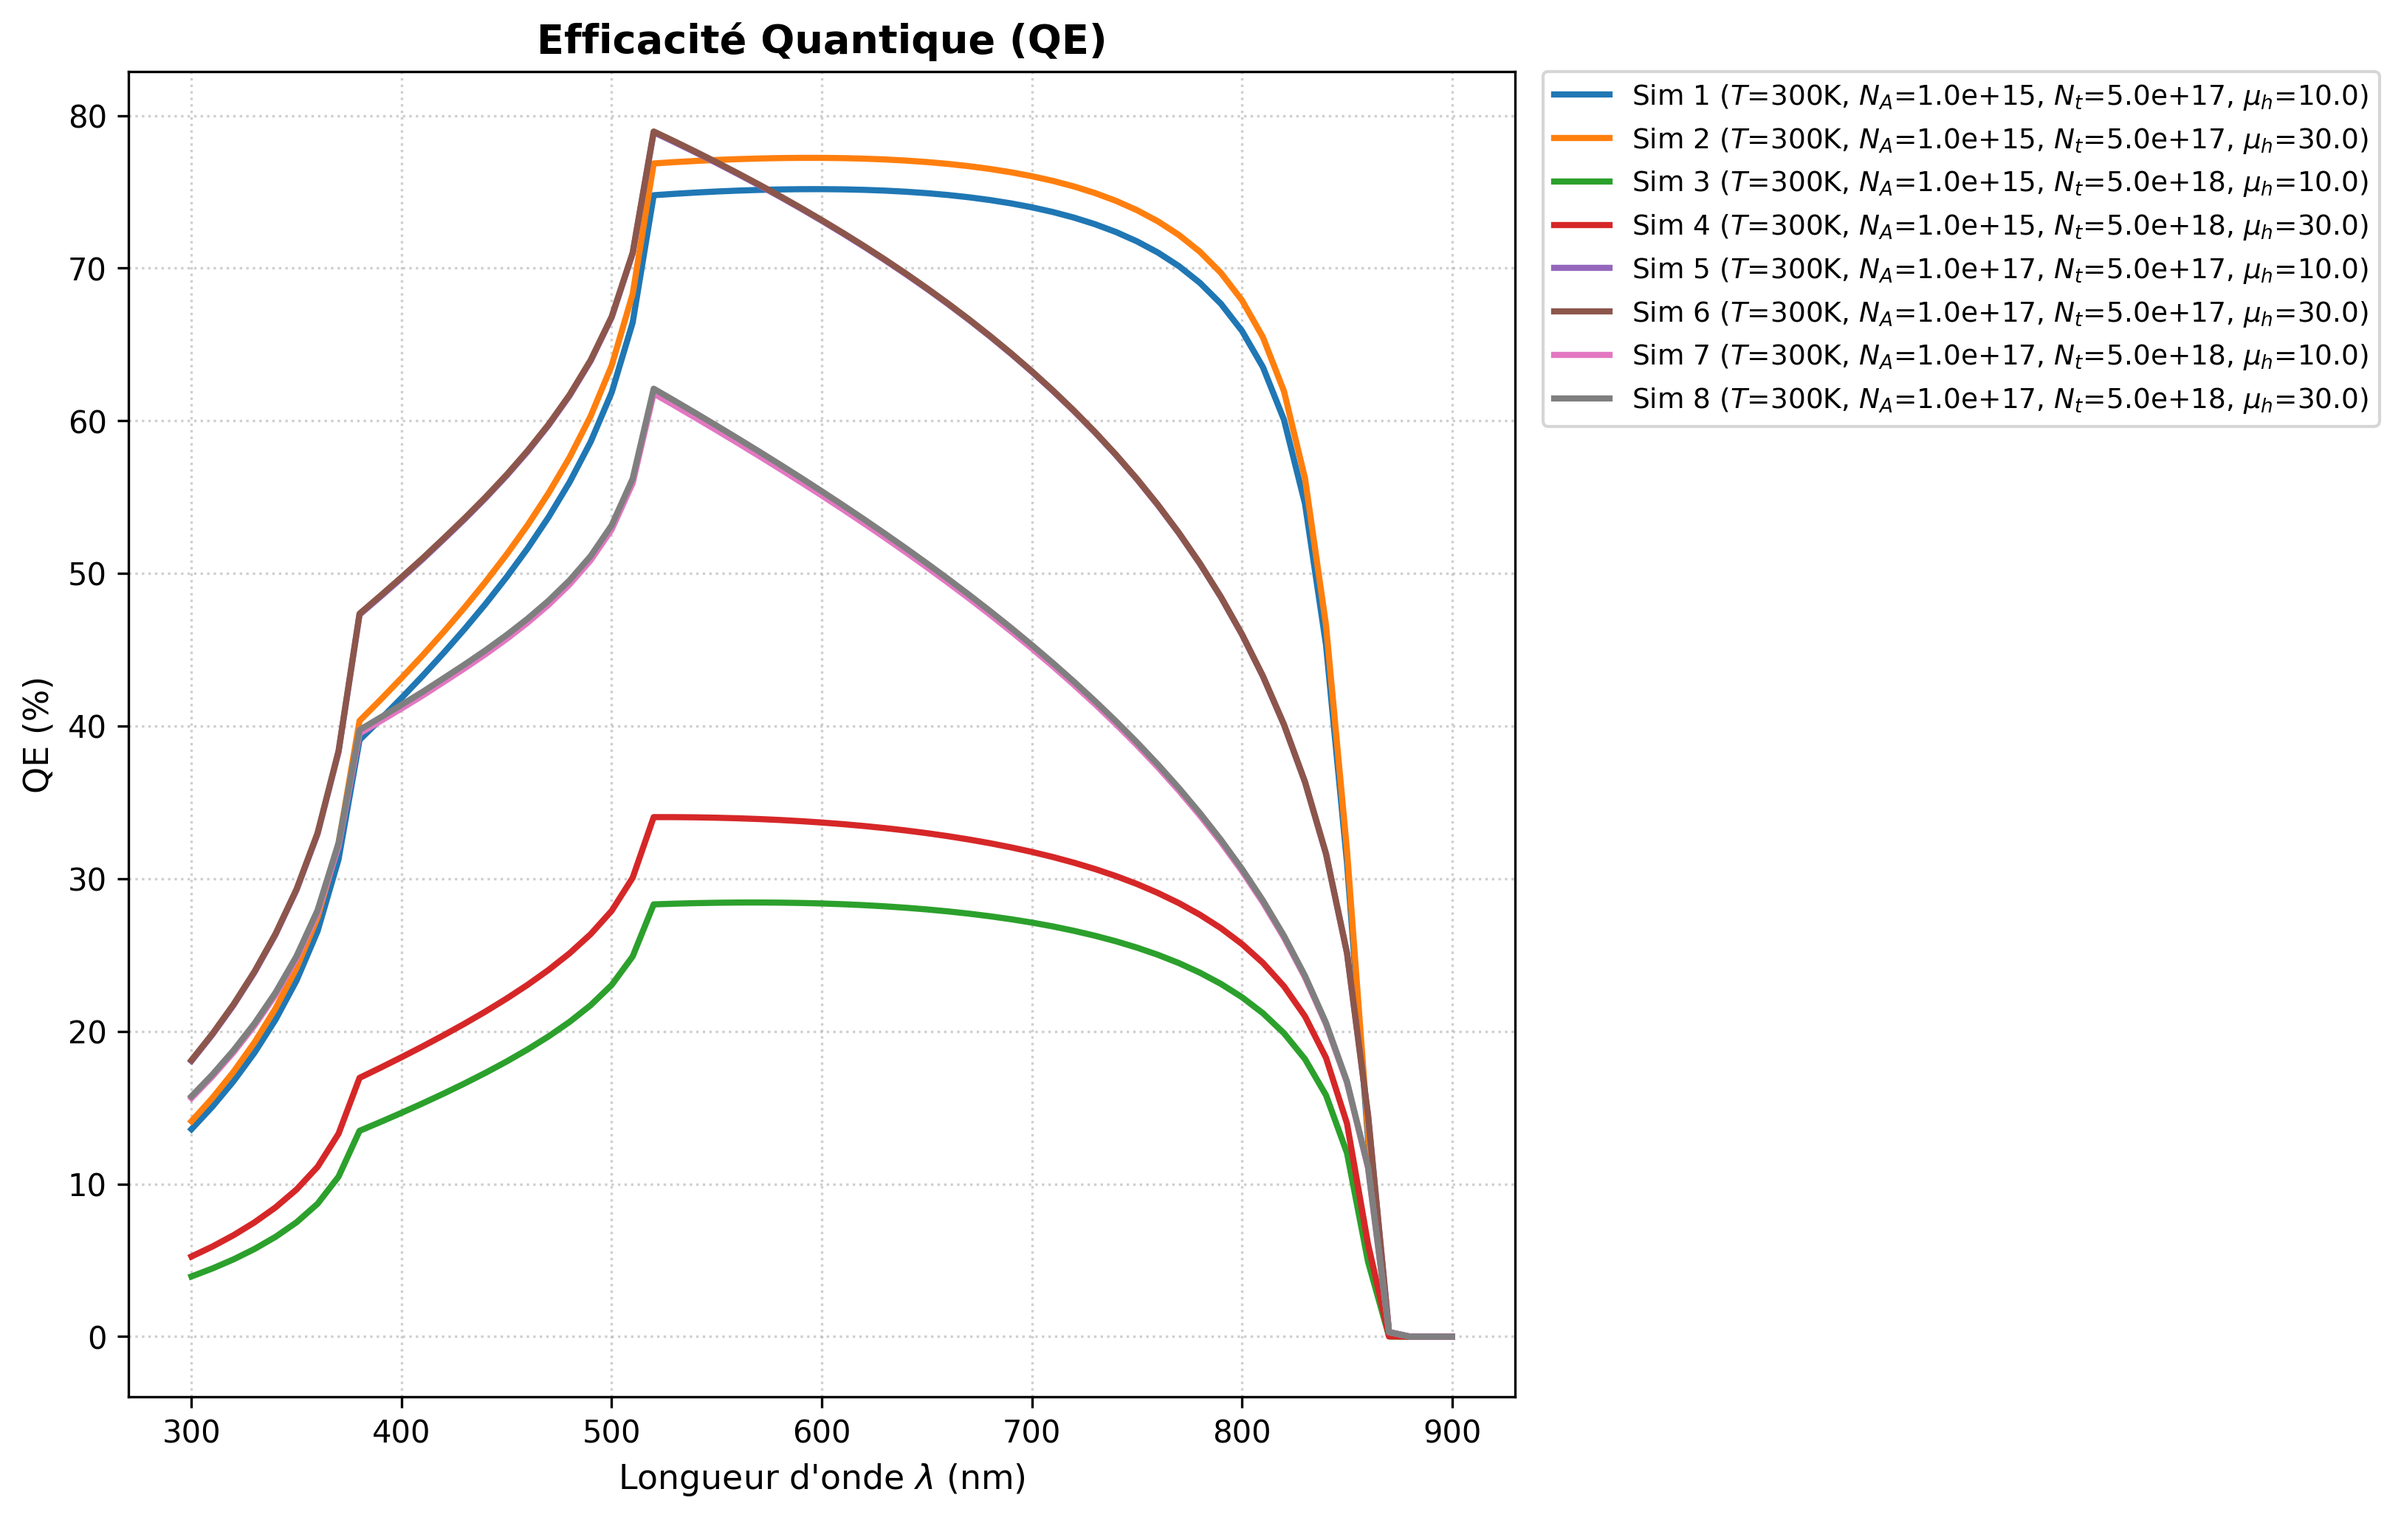
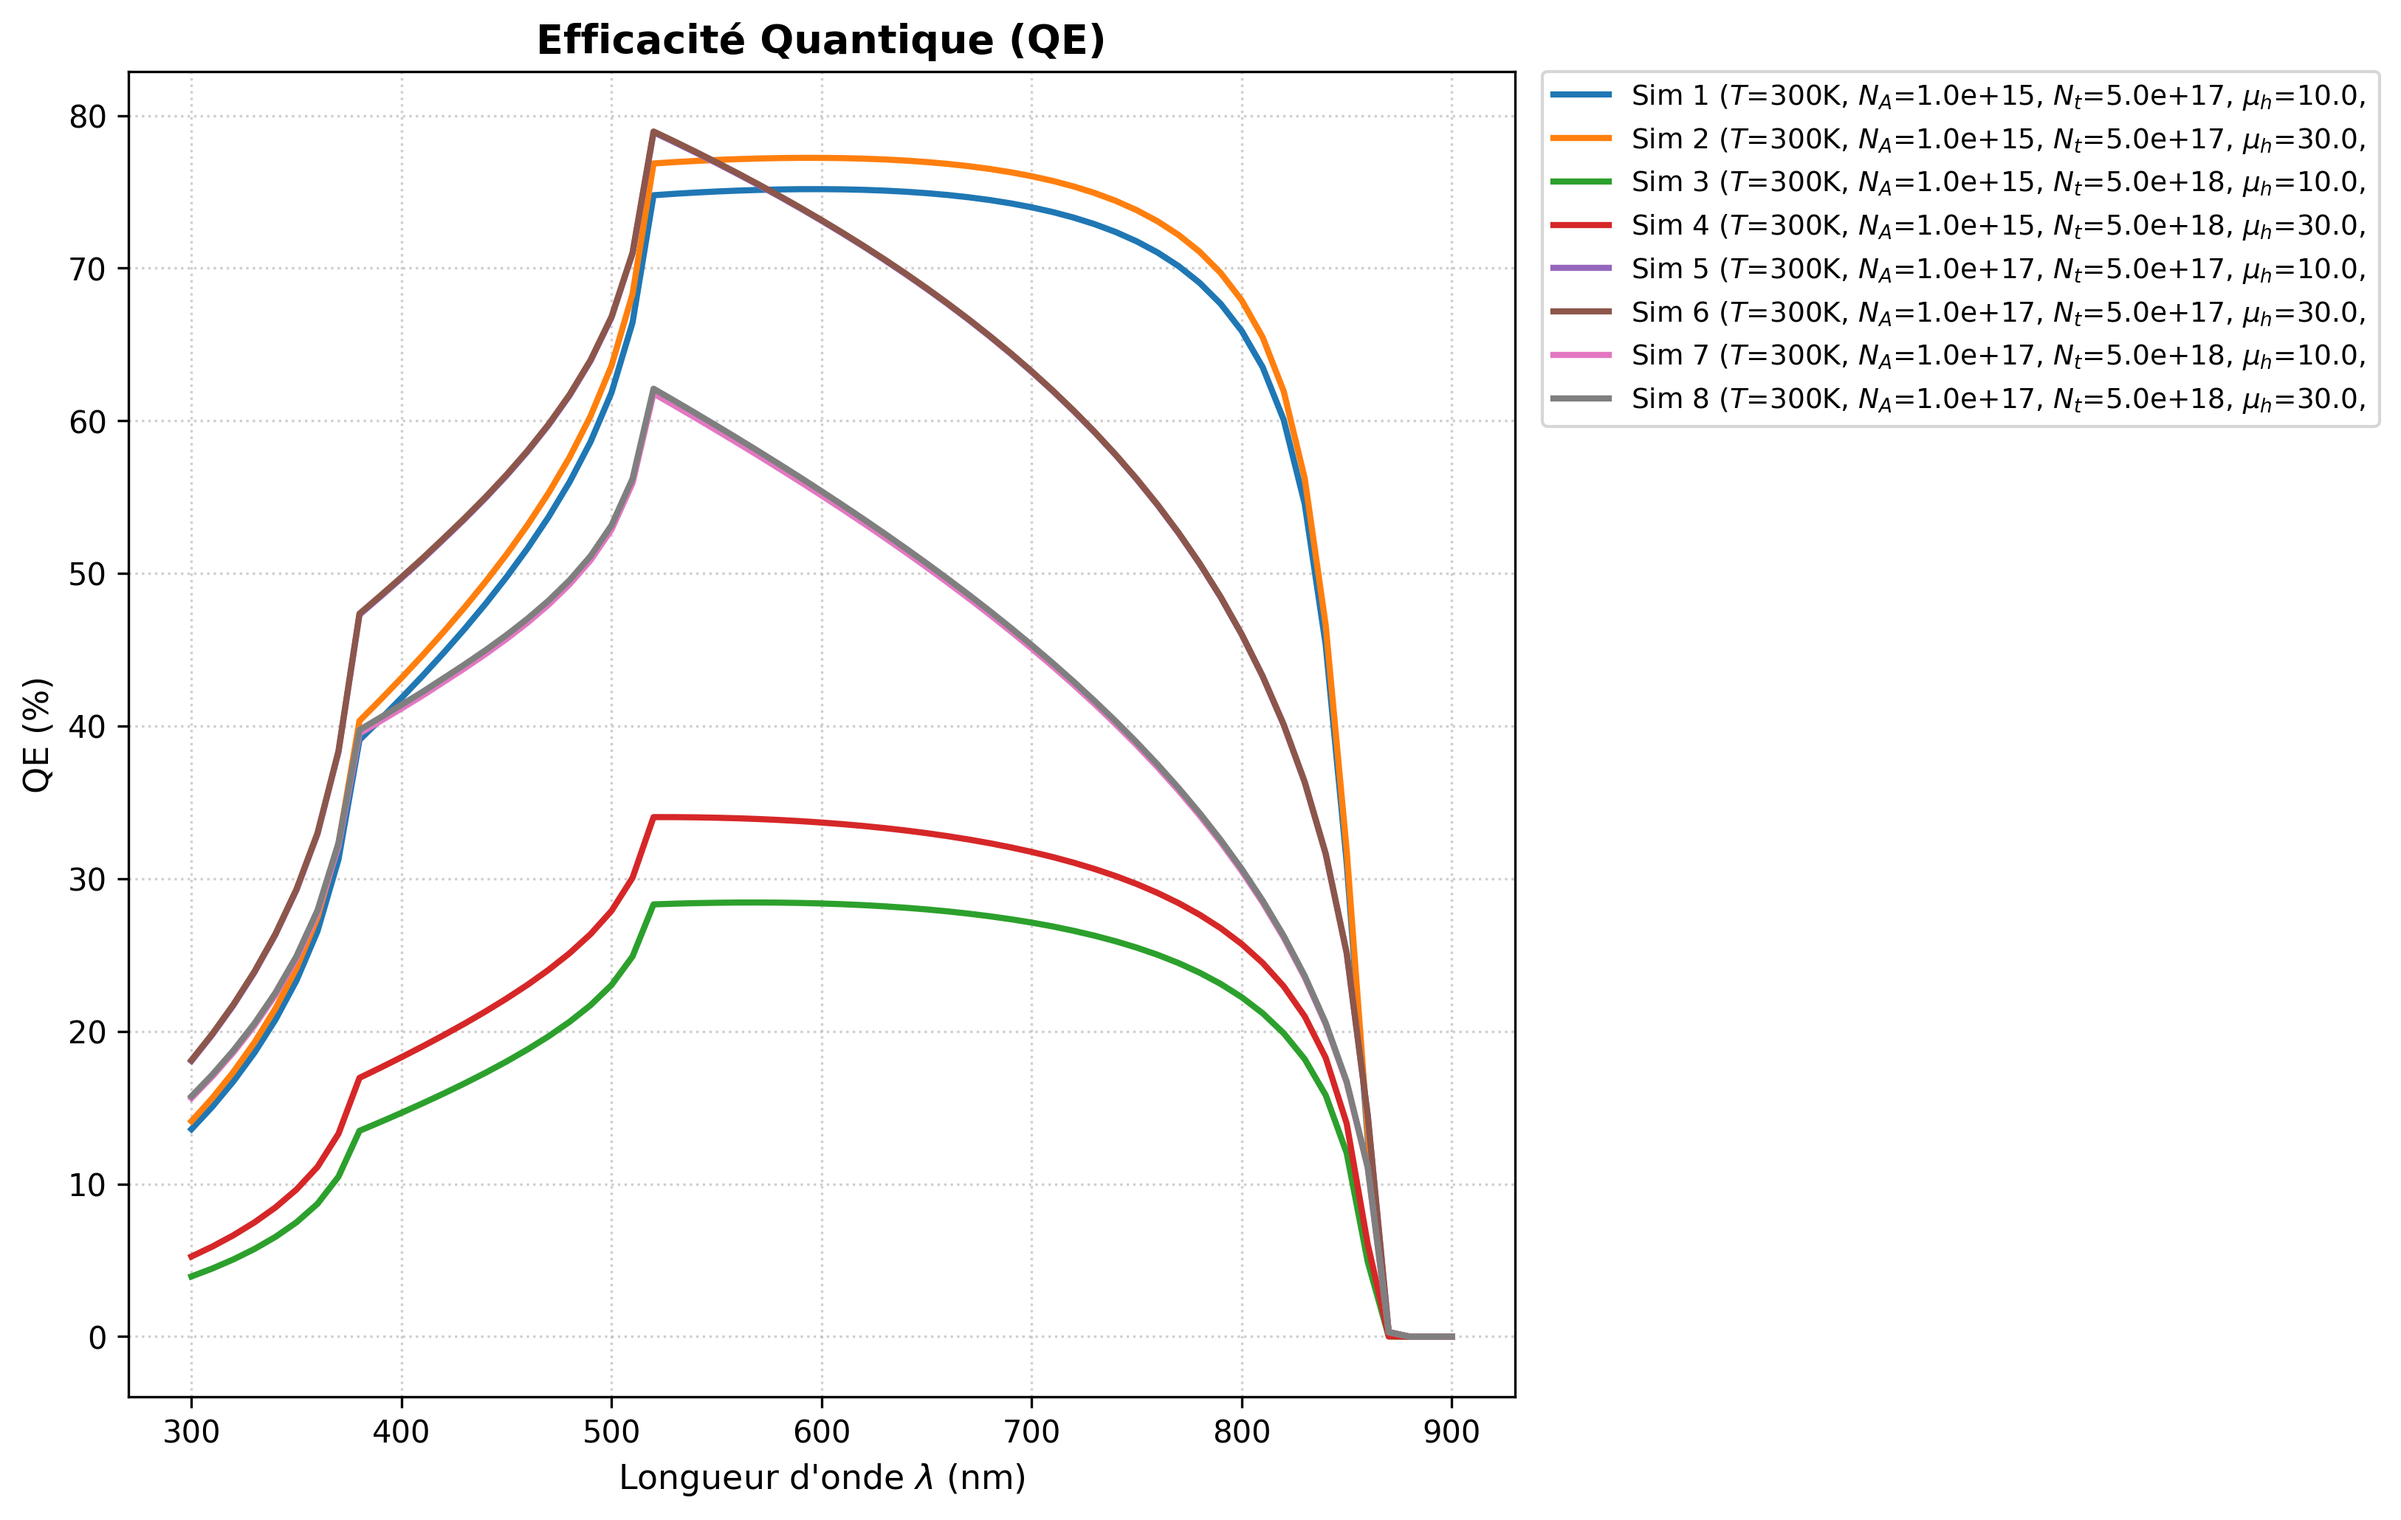
fix - different csv line size

diff --git a/plot_qe_curves.py b/plot_qe_curves.py
@@ -7,7 +7,7 @@ def plot_qe_curves(chemin_fichier, n_points=61):
     """Charge un fichier CSV et superpose toutes ses lignes sur un seul graphique QE.
 
     Chaque ligne doit suivre le format :
-    [lambda0, ..., lambdaN-1, qe0, ..., qeN-1, T, N_A, N_t, mu_h]
+    [lambda0, ..., lambdaN-1, qe0, ..., qeN-1, T, N_A, N_t, mu_h, id_def]
 
     Parameters:
     -----------
@@ -25,18 +25,18 @@ def plot_qe_curves(chemin_fichier, n_points=61):
         wavelengths = ligne[:n_points]
         qe_values = ligne[n_points : 2 * n_points]
 
-        # Les 4 derniers paramètres de la ligne
-        indicateurs = ligne[-4:]
+        # Les 5 derniers paramètres de la ligne
+        indicateurs = ligne[-5:]
 
         if idx < 10:
-            if len(ligne) >= (2 * n_points) + 4:
-                T, N_A, N_t, mu_h = indicateurs
+            if len(ligne) >= (2 * n_points) + 5:
+                T, N_A, N_t, mu_h, _ = indicateurs
                 # Formatage de la légende avec les symboles physiques en LaTeX
                 label_courbe = (
                     f"Sim {idx+1} ($T$={T:.0f}K, "
                     f"$N_A$={N_A:.1e}, "
                     f"$N_t$={N_t:.1e}, "
-                    f"$\\mu_h$={mu_h:.1f})"
+                    f"$\\mu_h$={mu_h:.1f}, "
                 )
             else:
                 label_courbe = f"Sim {idx+1}"

diff --git a/plot_iv_curves.py b/plot_iv_curves.py
@@ -83,8 +83,8 @@ def plot_iv_curves(chemin_fichier, n_points=None):
     fig, ax = plt.subplots(figsize=(11, 7))
 
     for idx, ligne in enumerate(donnees):
-        # Déduction du nombre de points : on retire les 6 indicateurs IV + 4 physiques = 10
-        n = n_points if n_points is not None else (len(ligne) - 10) // 2
+        # Déduction du nombre de points : on retire les 6 indicateurs IV + 4 physiques + 1 id = 11
+        n = n_points if n_points is not None else (len(ligne) - 11) // 2
 
         V = ligne[:n]
         I = ligne[n : 2 * n]
